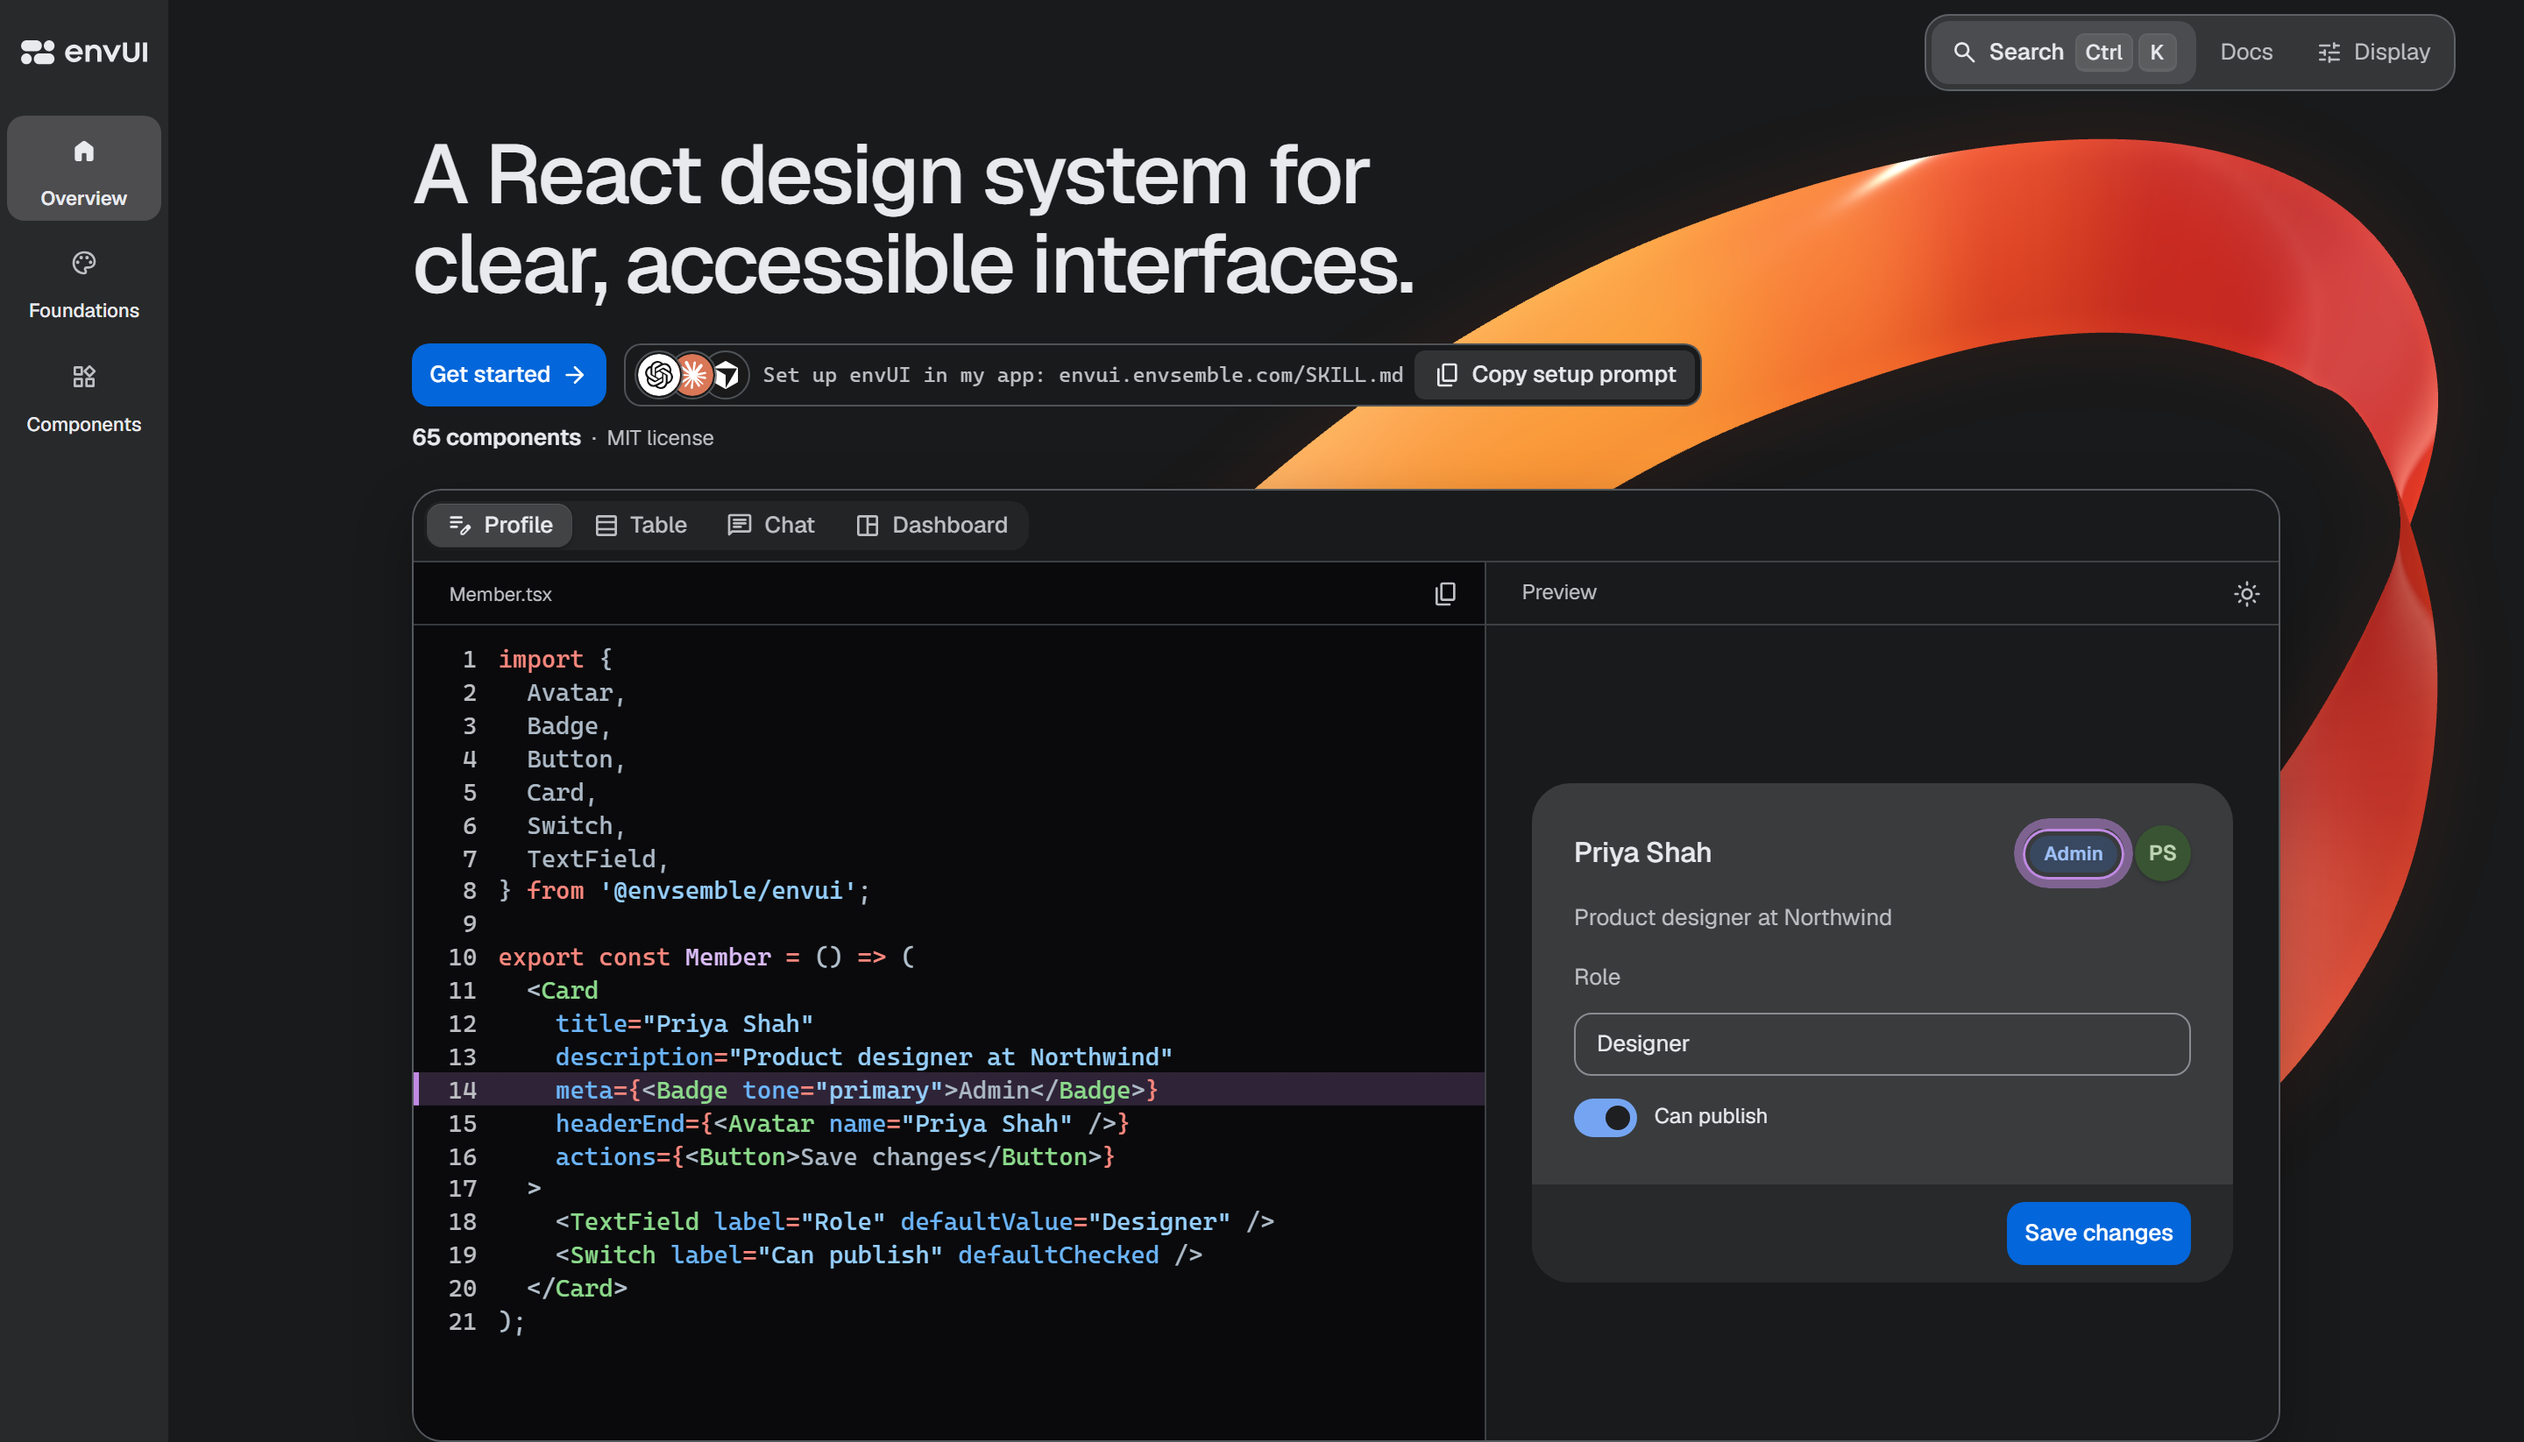
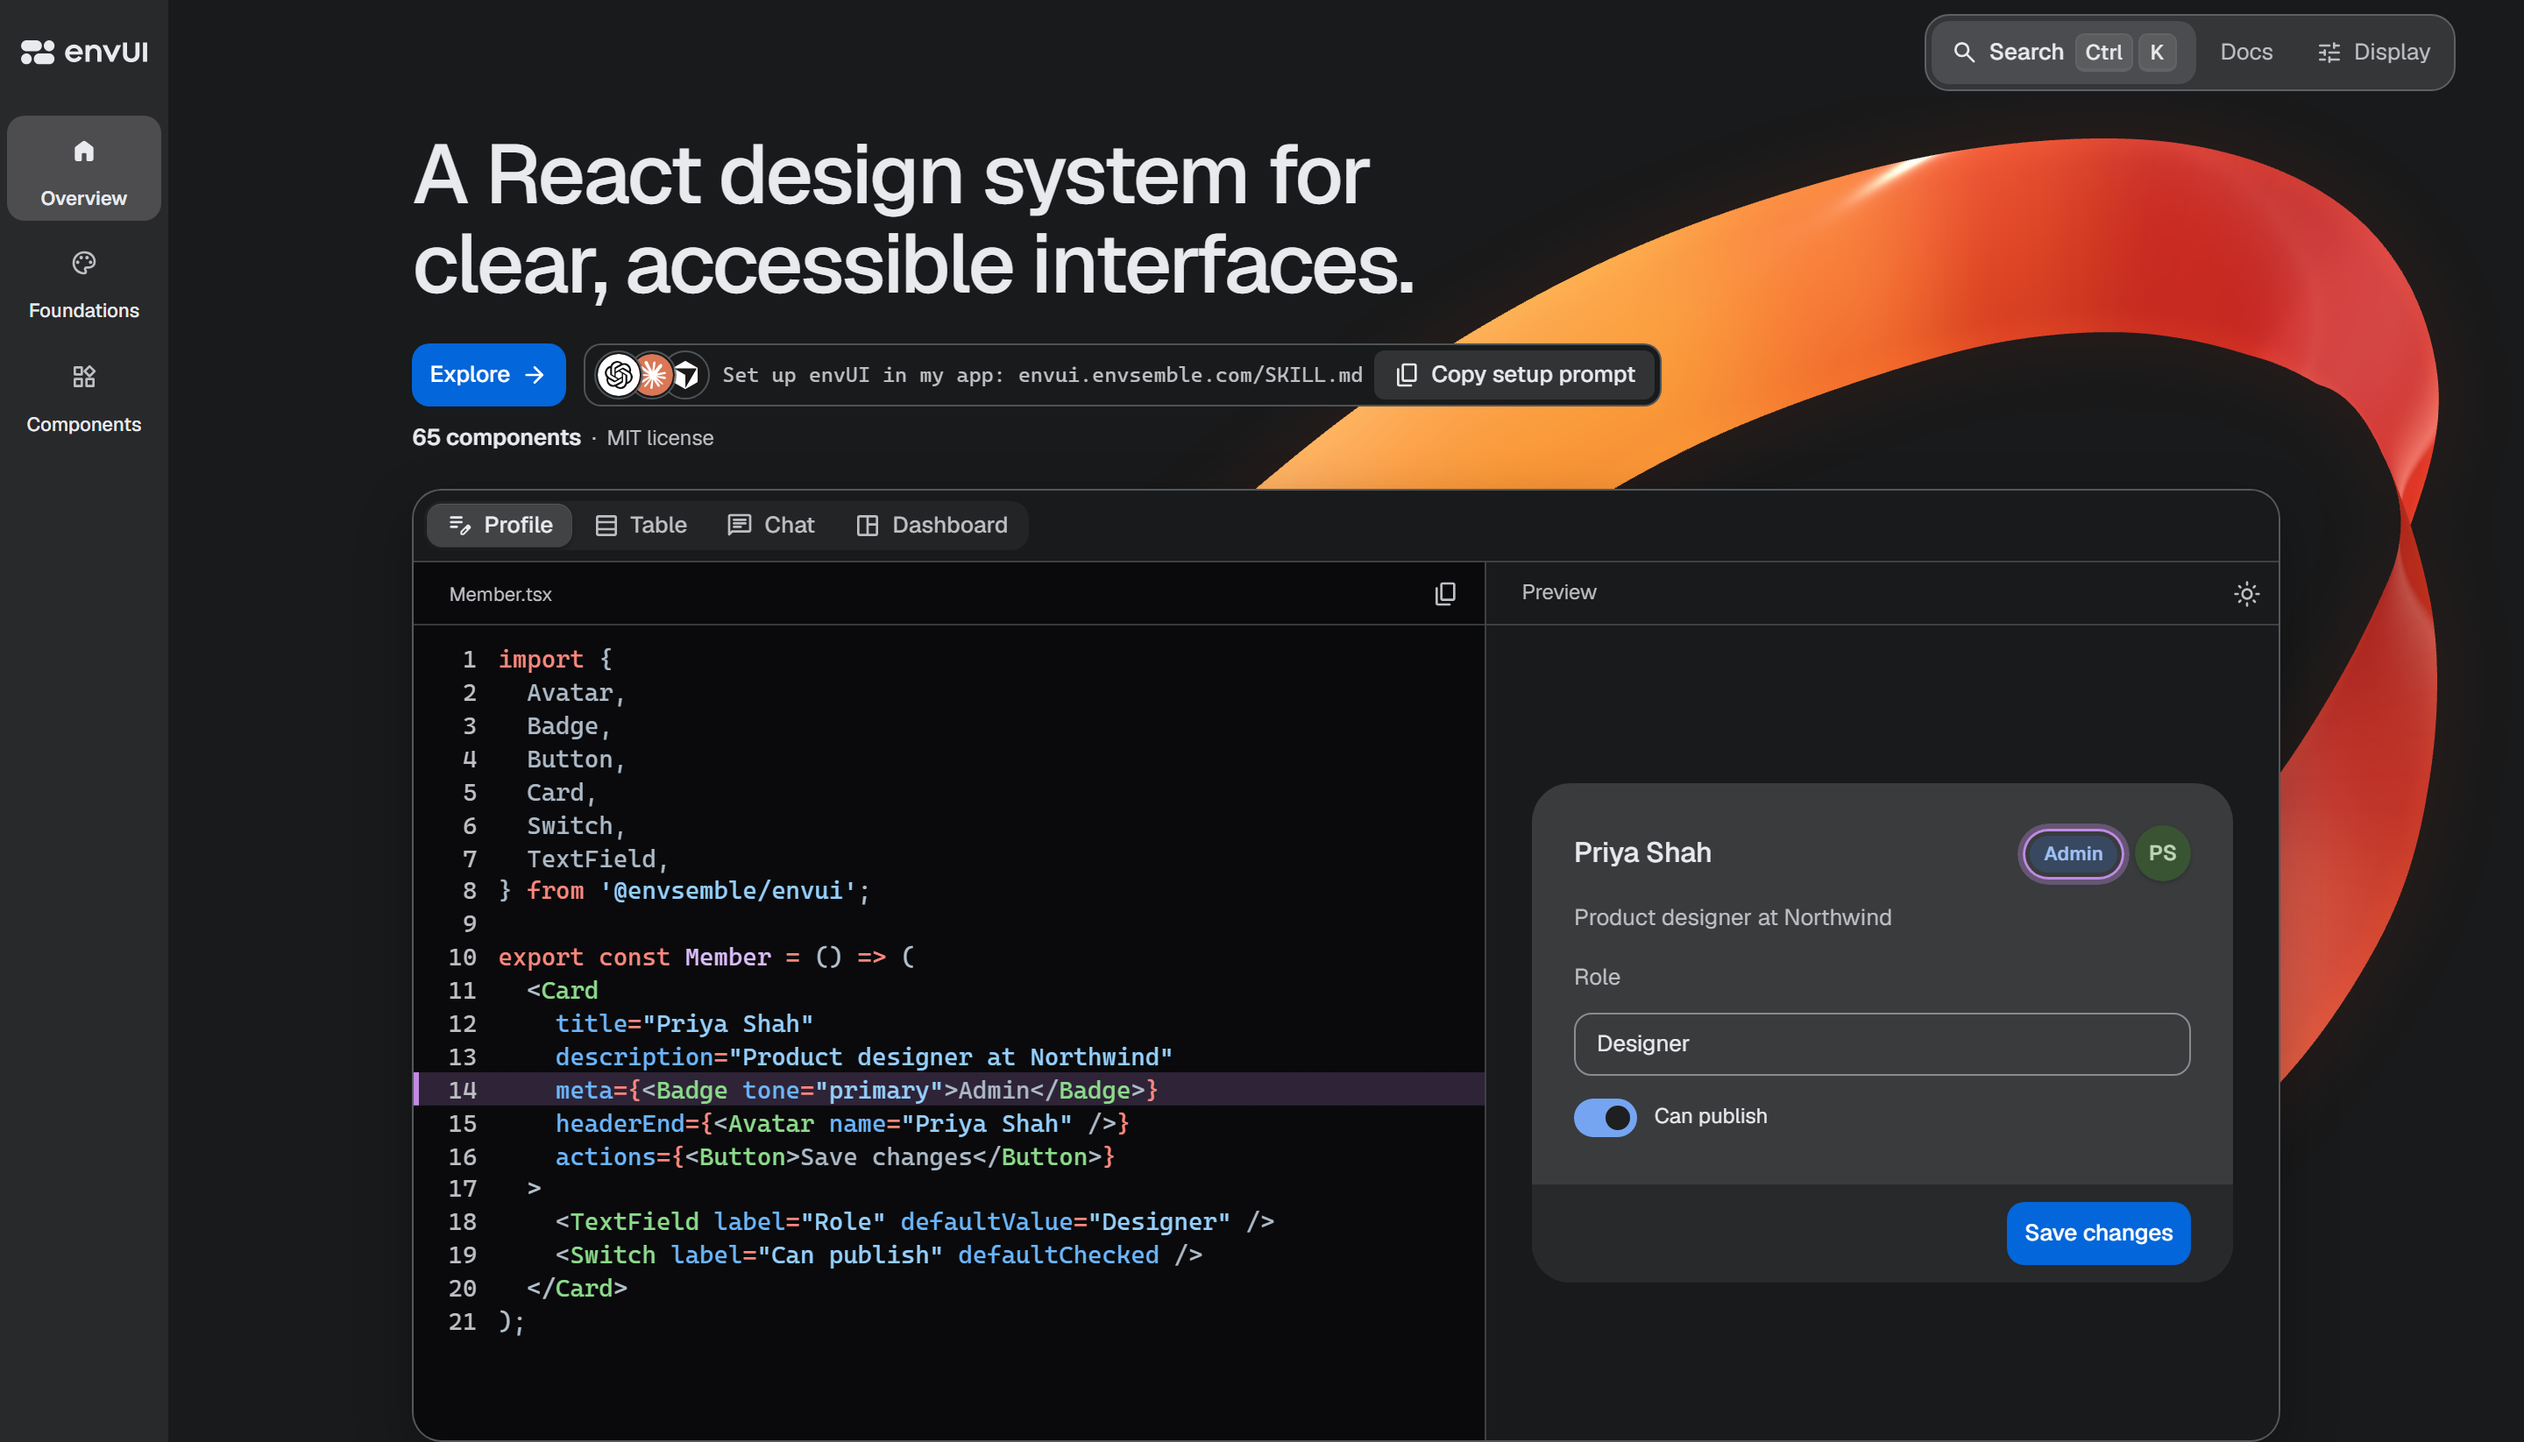
Release 3.0.1

Changed region(s): [[0.1562, 0.2169, 0.6875, 0.2789], [0.7812, 0.5577, 0.8438, 0.6197]]

diff --git a/packages/ui/CHANGELOG.md b/packages/ui/CHANGELOG.md
@@ -1,5 +1,13 @@
 # Changelog
 
+## 3.0.1 — 2026-11-21
+
+A patch release with one fix, to CodeBlock.
+
+### Patch Changes
+
+- CodeBlock: code that scrolls sideways now runs to the block's edges instead of being cut off at its padding, so scrolling no longer narrows what shows. At rest the code keeps the same inset, and the focus ring of the scrolling code sits inside the block.
+
 ## 3.0.0 — 2026-11-21
 
 envUI 3.0 gives each place one name and leaves the application its own decisions. Components that belong to one kind of product leave the library (AnimatedNumber, CalendarHeatmap, DiffStat, Rating, MarkdownEditor, RichTextEditor and dev mode), content before a label is always `start`, and where a theme preference or a pane's width is kept is the application's call. Halo is new, a breathing halo that points at the one thing to look at next, and NavigationRail's current destination now looks like the drawer's current row. Each breaking change below says what to write instead.

diff --git a/README.md b/README.md
@@ -16,7 +16,7 @@
 
 <picture>
   <source media="(prefers-color-scheme: dark)" srcset="assets/readme/overview-dark.png">
-  <img src="assets/readme/overview-light.png" alt="The overview of the envUI website: its banner, with Get started beside the install command, over a fan of cards built with envUI: a pull request, a conversation with an assistant, a heatmap of deploys and a calendar" width="1440">
+  <img src="assets/readme/overview-light.png" alt="The front page of the envUI website: its headline, the Explore button and the setup prompt to copy, over a component's code beside the card it renders" width="1440">
 </picture>
 
 ## Get started

diff --git a/packages/stylelint-config/CHANGELOG.md b/packages/stylelint-config/CHANGELOG.md
@@ -1,5 +1,9 @@
 # @envsemble/stylelint-config-envui
 
+## 3.0.1 — 2026-11-21
+
+No changes in this release.
+
 ## 3.0.0 — 2026-11-21
 
 No changes in this release.

diff --git a/packages/eslint-plugin/CHANGELOG.md b/packages/eslint-plugin/CHANGELOG.md
@@ -1,5 +1,9 @@
 # @envsemble/eslint-plugin-envui
 
+## 3.0.1 — 2026-11-21
+
+No changes in this release.
+
 ## 3.0.0 — 2026-11-21
 
 ### Major Changes
